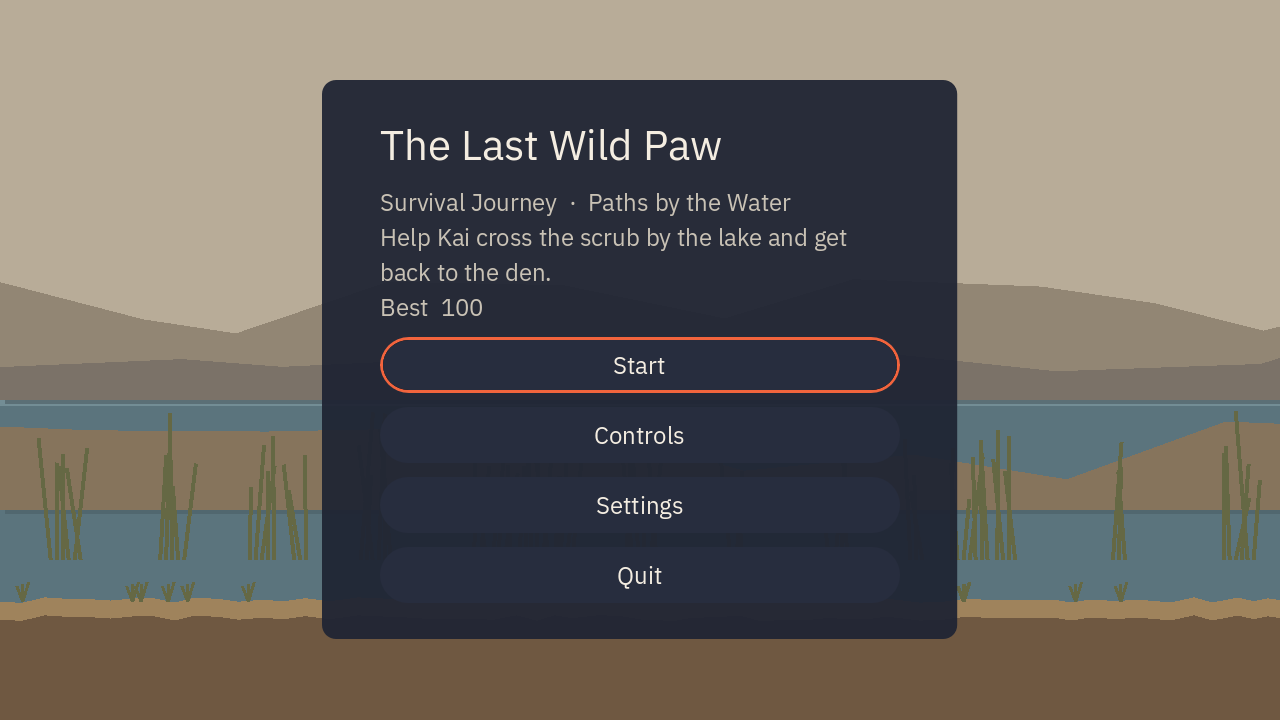
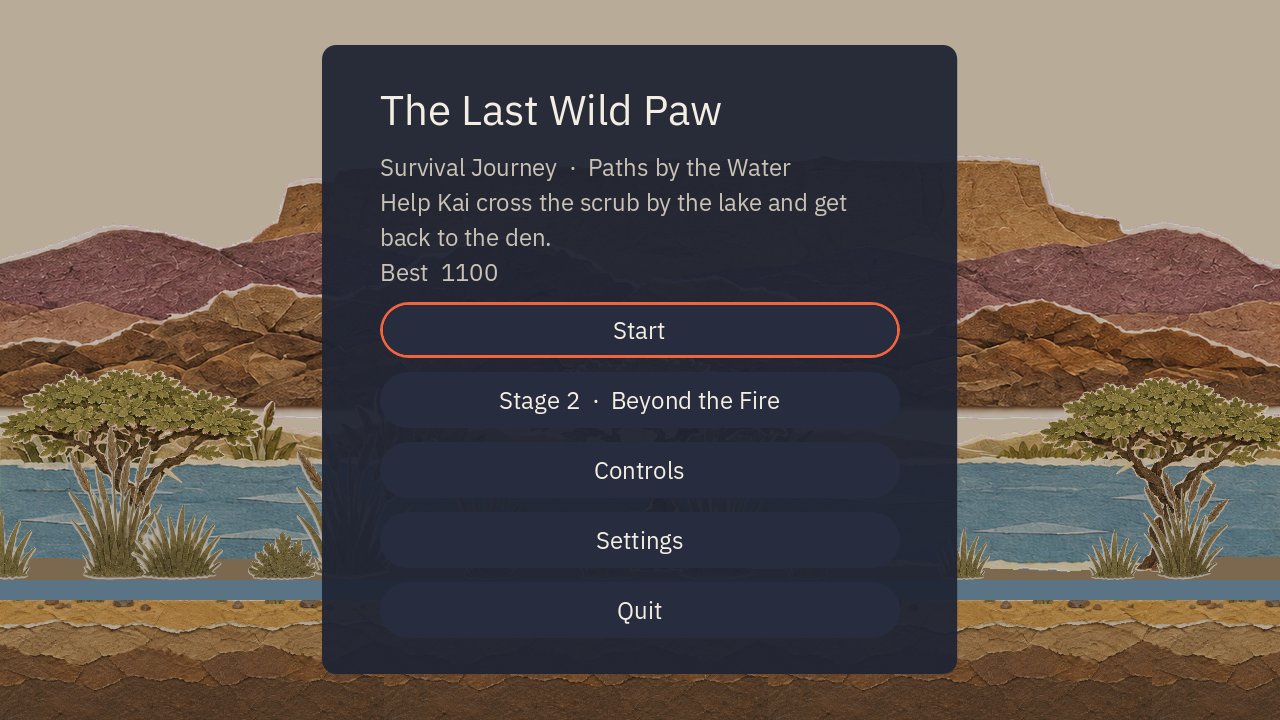
2026 Updated Paper Collage Sprites (Readme).

diff --git a/README.md b/README.md
@@ -5,14 +5,14 @@
 A short 2D side-scroller from the animated series *The Last Wild Paw* (อุ้งเท้าป่าสุดท้าย). You play Kai, a young
 African wildcat on the prehistoric Fayum lakeshore (~4500 BCE): run, jump, pounce, find food and reach the den.
 
-**Status:** v0.1.1, one stage ("Paths by the Water"). Website: https://gomin2013.github.io/the-last-wild-paw/
+**Status:** v0.1.1 release, one stage ("Paths by the Water"). The browser demo also has Stage 2 ("Beyond the Fire") and touch controls. Website: https://gomin2013.github.io/the-last-wild-paw/
 
 **Play:** [in the browser](https://gomin2013.github.io/the-last-wild-paw/play/) · [download for macOS, Windows, Linux](https://github.com/gomin2013/the-last-wild-paw/releases/latest) ·
 [leave play-test feedback](https://github.com/gomin2013/the-last-wild-paw/issues/new?template=playtest.yml)
 
-| Title | Stage (placeholder art) |
-|---|---|
-| ![Title screen with Start, Controls, Settings and Quit](.github/readme/title.png) | ![Kai on the lakeshore with a jackal behind him, bird eggs, thorns and rocks ahead](.github/readme/stage.png) |
+| Title | Stage 1: Paths by the Water | Stage 2: Beyond the Fire |
+|---|---|---|
+| ![Title screen over the paper-collage lakeshore, with Start, Stage 2, Controls, Settings and Quit](.github/readme/title.png) | ![Kai face to face with a golden jackal on the lakeshore, earth pillars and a bird egg nearby](.github/readme/stage.png) | ![Kai at night near the people's camp, a fish left on a stone and a jackal behind him](.github/readme/stage_fire.png) |
 
 ## Controls
 
@@ -22,6 +22,9 @@ African wildcat on the prehistoric Fayum lakeshore (~4500 BCE): run, jump, pounc
 | Jump (hold for higher) | Z or Space | A / Cross |
 | Pounce | X or J | X / Square |
 | Pause | Esc | Start |
+
+On a phone or tablet (hold it sideways), on-screen buttons appear: left / right on the left thumb, pounce (claw) and
+jump (big triangle) on the right, pause at the top.
 
 ## Run from source
 

diff --git a/CREDITS.md b/CREDITS.md
@@ -8,7 +8,9 @@ The Last Wild Paw: Survival Journey is original work by Gomin Studio, based on t
 | Asset | Source | Licence |
 |---|---|---|
 | `assets/sprites/kai/**`, `assets/sprites/jackal/**` | Paper Collage sprites made from the series standees with OpenAI gpt-image (sprite-gen) | © 2026 Gomin Studio |
-| Stage art (`actors/props/**`, drawn in code) | Gomin Studio, placeholder | © 2026 Gomin Studio |
+| `assets/props/{den_rocks,rock_small,grass_tall,reed_low,reed_tall,shrub,tussock,stones,smoke}.png` | Series S1 set kit (Gomin Studio) | © 2026 Gomin Studio |
+| `assets/props/{hut,hut_side,hearth,pit,basket,fish}.png` | Series S2 set kit and creature standees (Gomin Studio) | © 2026 Gomin Studio |
+| `assets/props/{mountains,lake,ground,thorns,acacia,tamarisk}.png`, `docs/assets/img/{world-mid,hero-acacia}.webp` | Paper Collage props made with OpenAI gpt-image (sprite-gen), styled on the S1 set kit | © 2026 Gomin Studio |
 | `assets/audio/placeholder_music_curious_paws.mp3` | Series soundtrack M02 "Curious Paws" (Gomin Studio, made with Google Lyria) | © 2026 Gomin Studio |
 | `assets/audio/placeholder_*.wav` | Synthesised for the prototype | © 2026 Gomin Studio |
 | `assets/fonts/anuphan.woff2` | Anuphan by Cadson Demak (Google Fonts), subset | SIL OFL 1.1 (`assets/fonts/OFL.txt`) |
